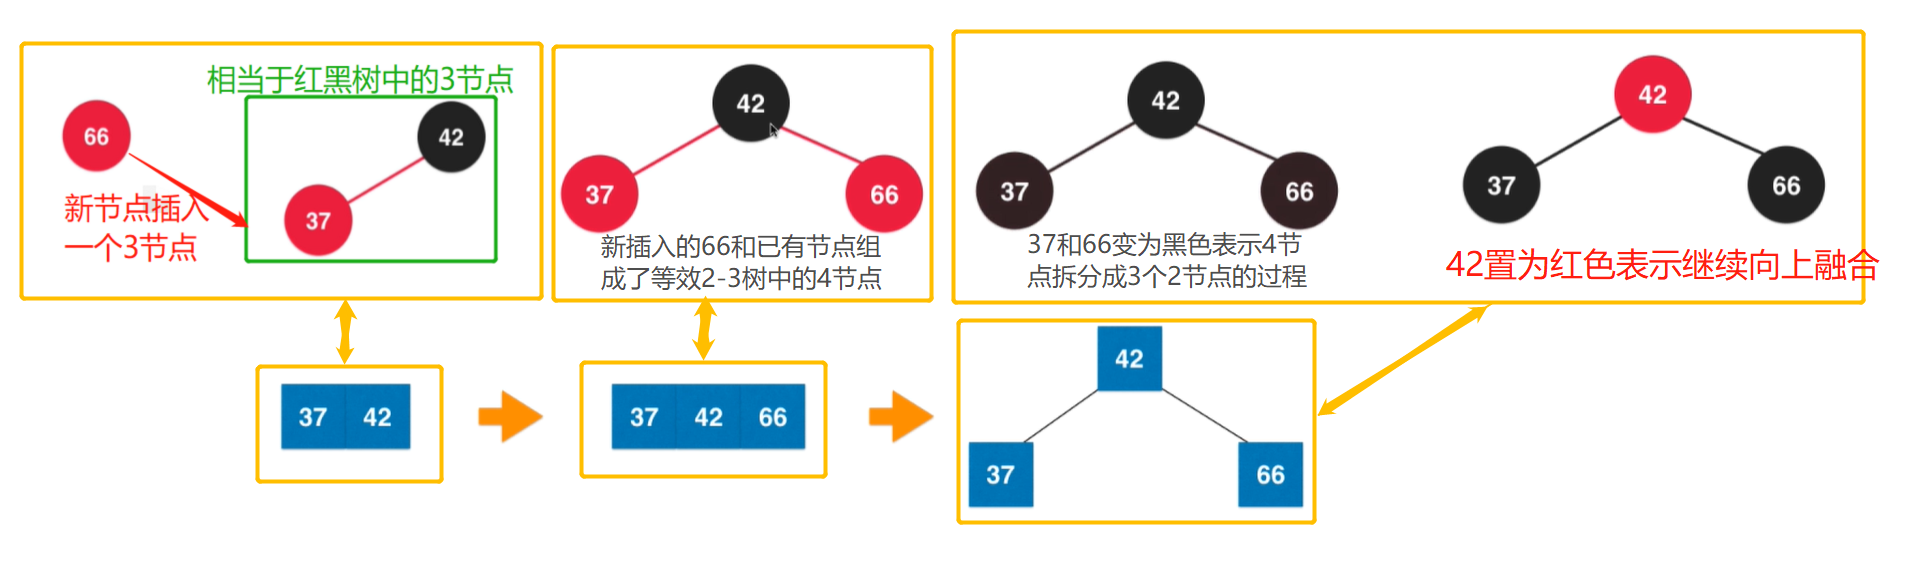
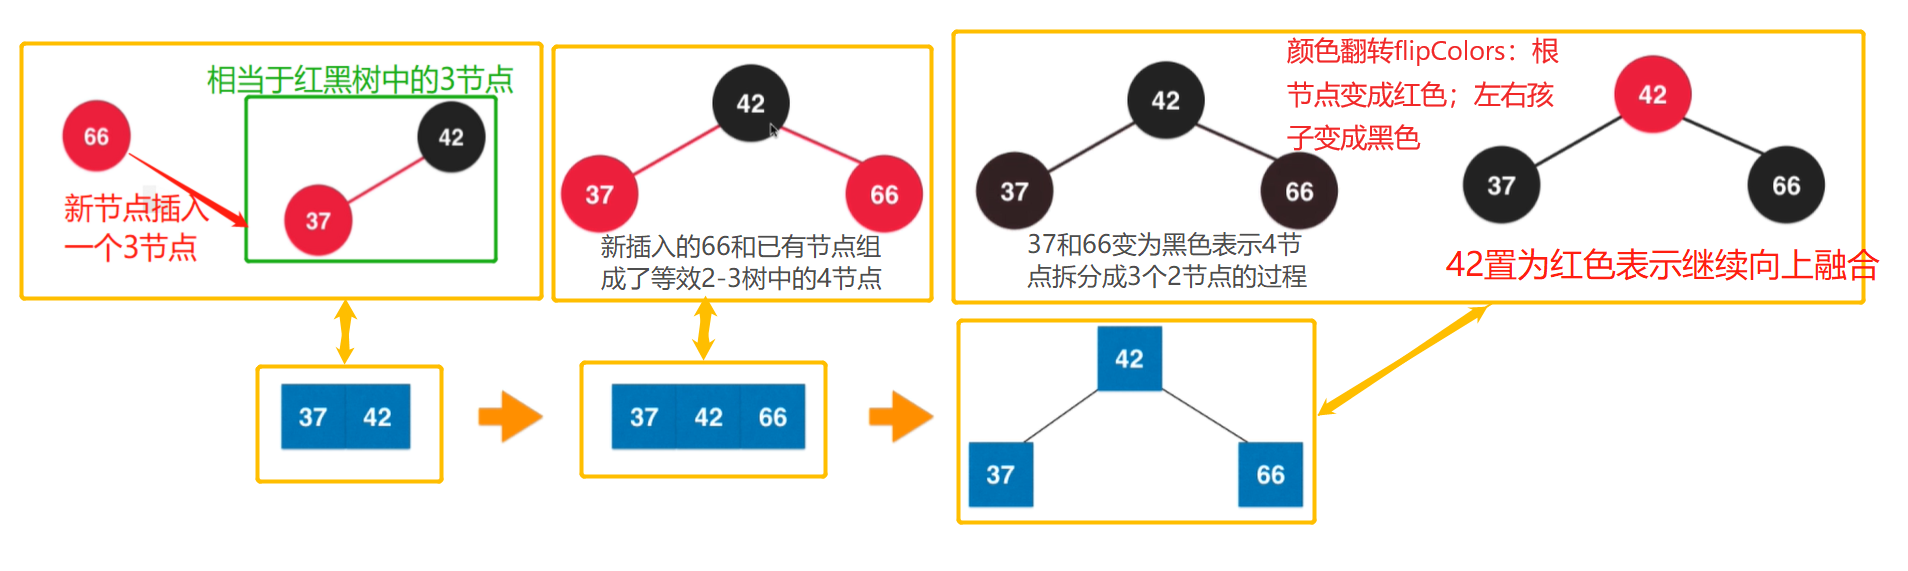
颜色翻转和右旋转开始啦

Changed region(s): [[0.6803, 0.1489, 0.8349, 0.268], [0.6803, 0.0595, 0.8349, 0.1191]]

diff --git a/Part2Basic/src/main/java/Chapter13ReadBlackTree/Section5to7AddNode/BSTKV_RBTree.java b/Part2Basic/src/main/java/Chapter13ReadBlackTree/Section5to7AddNode/BSTKV_RBTree.java
@@ -131,6 +131,18 @@ public class BSTKV_RBTree<K extends Comparable<K>, V> {
     }
 
     /**
+     * 把以node为根的节点和左右孩子节点的颜色进行翻转(红变黑，黑变红)
+     * 红黑树中新插入的节点和已有节点组成了4节点，而且是平衡的一个小树，则需要进行颜色翻转.
+     *
+     * @param node 要翻转子树的根节点
+     */
+    private void flipColors(Node node) {
+        node.color = RED;
+        node.left.color = BLACK;
+        node.right.color = BLACK;
+    }
+
+    /**
      * 向以节点Node为根节点的红黑树中添加新的键值对元素，递归实现
      *
      * @param node 红黑树的根节点

diff --git a/Part2Basic/第13章_红黑树.md b/Part2Basic/第13章_红黑树.md
@@ -155,5 +155,26 @@ private Node rotateLeft(Node node) {
 > 上一节的两种情况实际是新的节点x插入到一个已有的2节点中，本节我们将看向红黑树中的`3节点(要被新节点插入的节点是红色，且其父节点是黑色，红色节点是其父亲节点的左节点)`，如下图就是一个红黑树中等效于2-3树中3节点的两个相连节点
 ![红黑树中新节点插入一个3节点](images/第13章_红黑树/红黑树中新节点插入一个3节点.png)
 
-### 红黑树中新插入的节点和已有节点组成了4节点，则需要进行颜色翻转
-![](images/第13章_红黑树/红黑树中新插入的节点和已有节点组成了4节点.png)
+### 红黑树中新插入的节点和已有节点组成了4节点，而且是平衡的一个小树，则需要进行颜色翻转
+![红黑树中新插入的节点和已有节点组成了4节点](images/第13章_红黑树/红黑树中新插入的节点和已有节点组成了4节点.png)
+```java
+/**
+ * 把以node为根的节点和左右孩子节点的颜色进行翻转(红变黑，黑变红)
+ * 红黑树中新插入的节点和已有节点组成了4节点，而且是平衡的一个小树，则需要进行颜色翻转.
+ *
+ * @param node 要翻转子树的根节点
+ */
+private void flipColors(Node node) {
+    node.color = RED;
+    node.left.color = BLACK;
+    node.right.color = BLACK;
+}
+```
+### 红黑树中新插入的节点和已有节点组成了4节点，而且是不平衡的一个小树，则需要先进行右旋转
+![插入新节点后生成的等效4节点树不平衡](images/第13章_红黑树/插入新节点后生成的等效4节点树不平衡.png)
+
+右旋转的详细图示如下：
+
+```java
+
+```
